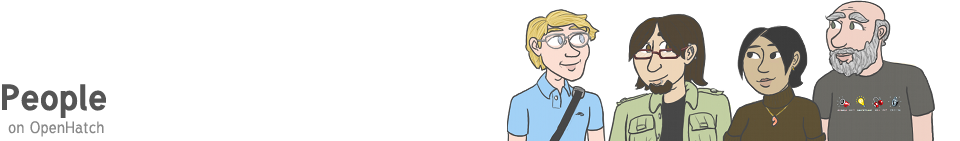
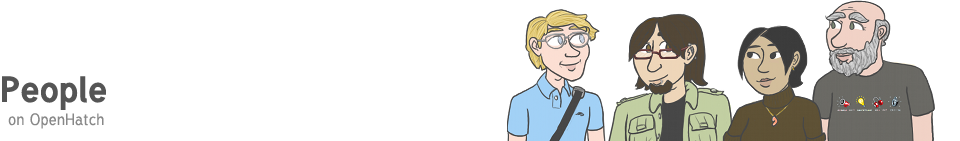
People graphic appears behind blue border of content module below it.

Changed region(s): [[0.0, 0.539, 0.125, 0.9645]]

diff --git a/mysite/profile/templates/profile/people.html b/mysite/profile/templates/profile/people.html
@@ -5,8 +5,15 @@
 People
 {% endblock title %}
 
+{% block pagetop %}
+    <h3>
+        <a href='{% url mysite.profile.views.people %}'>
+            <img alt='People on OpenHatch' id='people-search' alt='People on OpenHatch' src={% version '/static/images/people-search.png' %} width='960' height='141'/>
+        </a>
+    </h3>
+{% endblock pagetop %}
+
 {% block main %}
-    <img alt='People on OpenHatch' id='people-search' alt='People on OpenHatch' src={% version '/static/images/people-search.png' %} width='960' height='141'/>
 <div id='big-people-list' class='module'>
     <div class='module-content body'>
     {% block people_main %}

diff --git a/mysite/static/css/profile/search_people.css b/mysite/static/css/profile/search_people.css
@@ -1,5 +1,6 @@
 
 body#people-map img#people-search { position: relative; top: 8px; }
+body#people-map #content { position: relative; top: -12px; }
 body#people-map input[type="submit"]{ float:left; padding: 5px; position: relative; top: -1px; }
 body#people-map .map-error{background: #ffc; float: left; padding: 9px 2%; width: 36%; display: none}
 body#people-map #map_canvas{ text-align:center; float: right; width:68%; height:460px; }

diff --git a/mysite/base/templates/base/base.html b/mysite/base/templates/base/base.html
@@ -2,7 +2,7 @@
 {% load assets %}
 
 <!doctype html>
-<html>
+<html lang="en" dir="ltr">
     <head>
         <title>
             {% block whole_title %}
